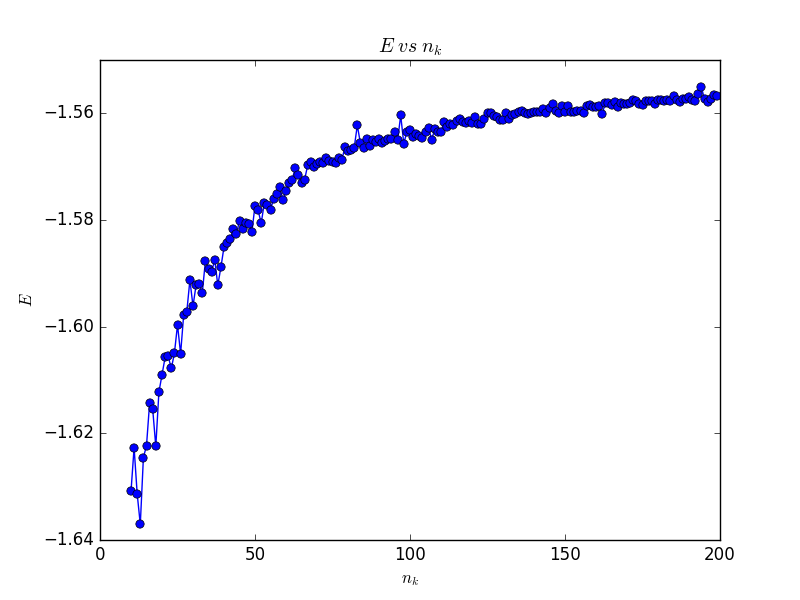
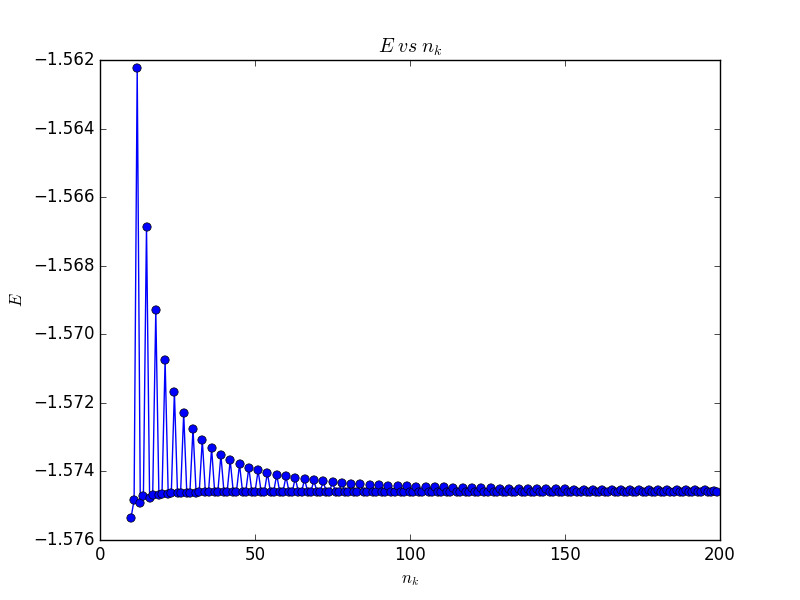
Fix irreducible k-list to use int types

diff --git a/HW1/Tight_Binding.py b/HW1/Tight_Binding.py
@@ -154,30 +154,28 @@ class hexagonal_lattice:
         self.wklist=[] # List of multiplicity of corresponding coordinate
         for i,kx in enumerate(kxlist):
             for j,ky in enumerate(kxlist):
-                # Fractional coordinate
-                k=[(kx+ky)/sqrt(3),kx-ky]
                 # Only add to list if inside Gamma-X-K-Gamma triangle
-                if k[0]<=2*pi/sqrt(3) and 0 <= k[1] and k[0] <= 3*k[1]:
+                if j<=i and i<=2*j and i+j<=nk:
                     self.klist.append([(kx+ky)/sqrt(3),kx-ky])
                     # Gamma point
-                    if k==[0,0]:
+                    if i==0 and j==0:
                         self.wklist.append(1.)
                     # Along X-K
-                    elif k[0]==2*pi/sqrt(3):
+                    elif i+j==nk:
                         # K point
-                        if k[0] == 3*k[1]:
+                        if i==2*j:
                             self.wklist.append(3.)
                         # X point 
-                        elif 0 == k[1]:
+                        elif i==j:
                             self.wklist.append(3.)
                         # Along X-K
                         else:
                             self.wklist.append(6.)
                     # Along Gamma-K
-                    elif k[0] == 3*k[1]:
+                    elif i==2*j:
                         self.wklist.append(6.)
                     # Along Gamma-X
-                    elif 0 == k[1]:
+                    elif i==j:
                         self.wklist.append(6.)
                     # Inside Gamma X K triangle
                     else:
